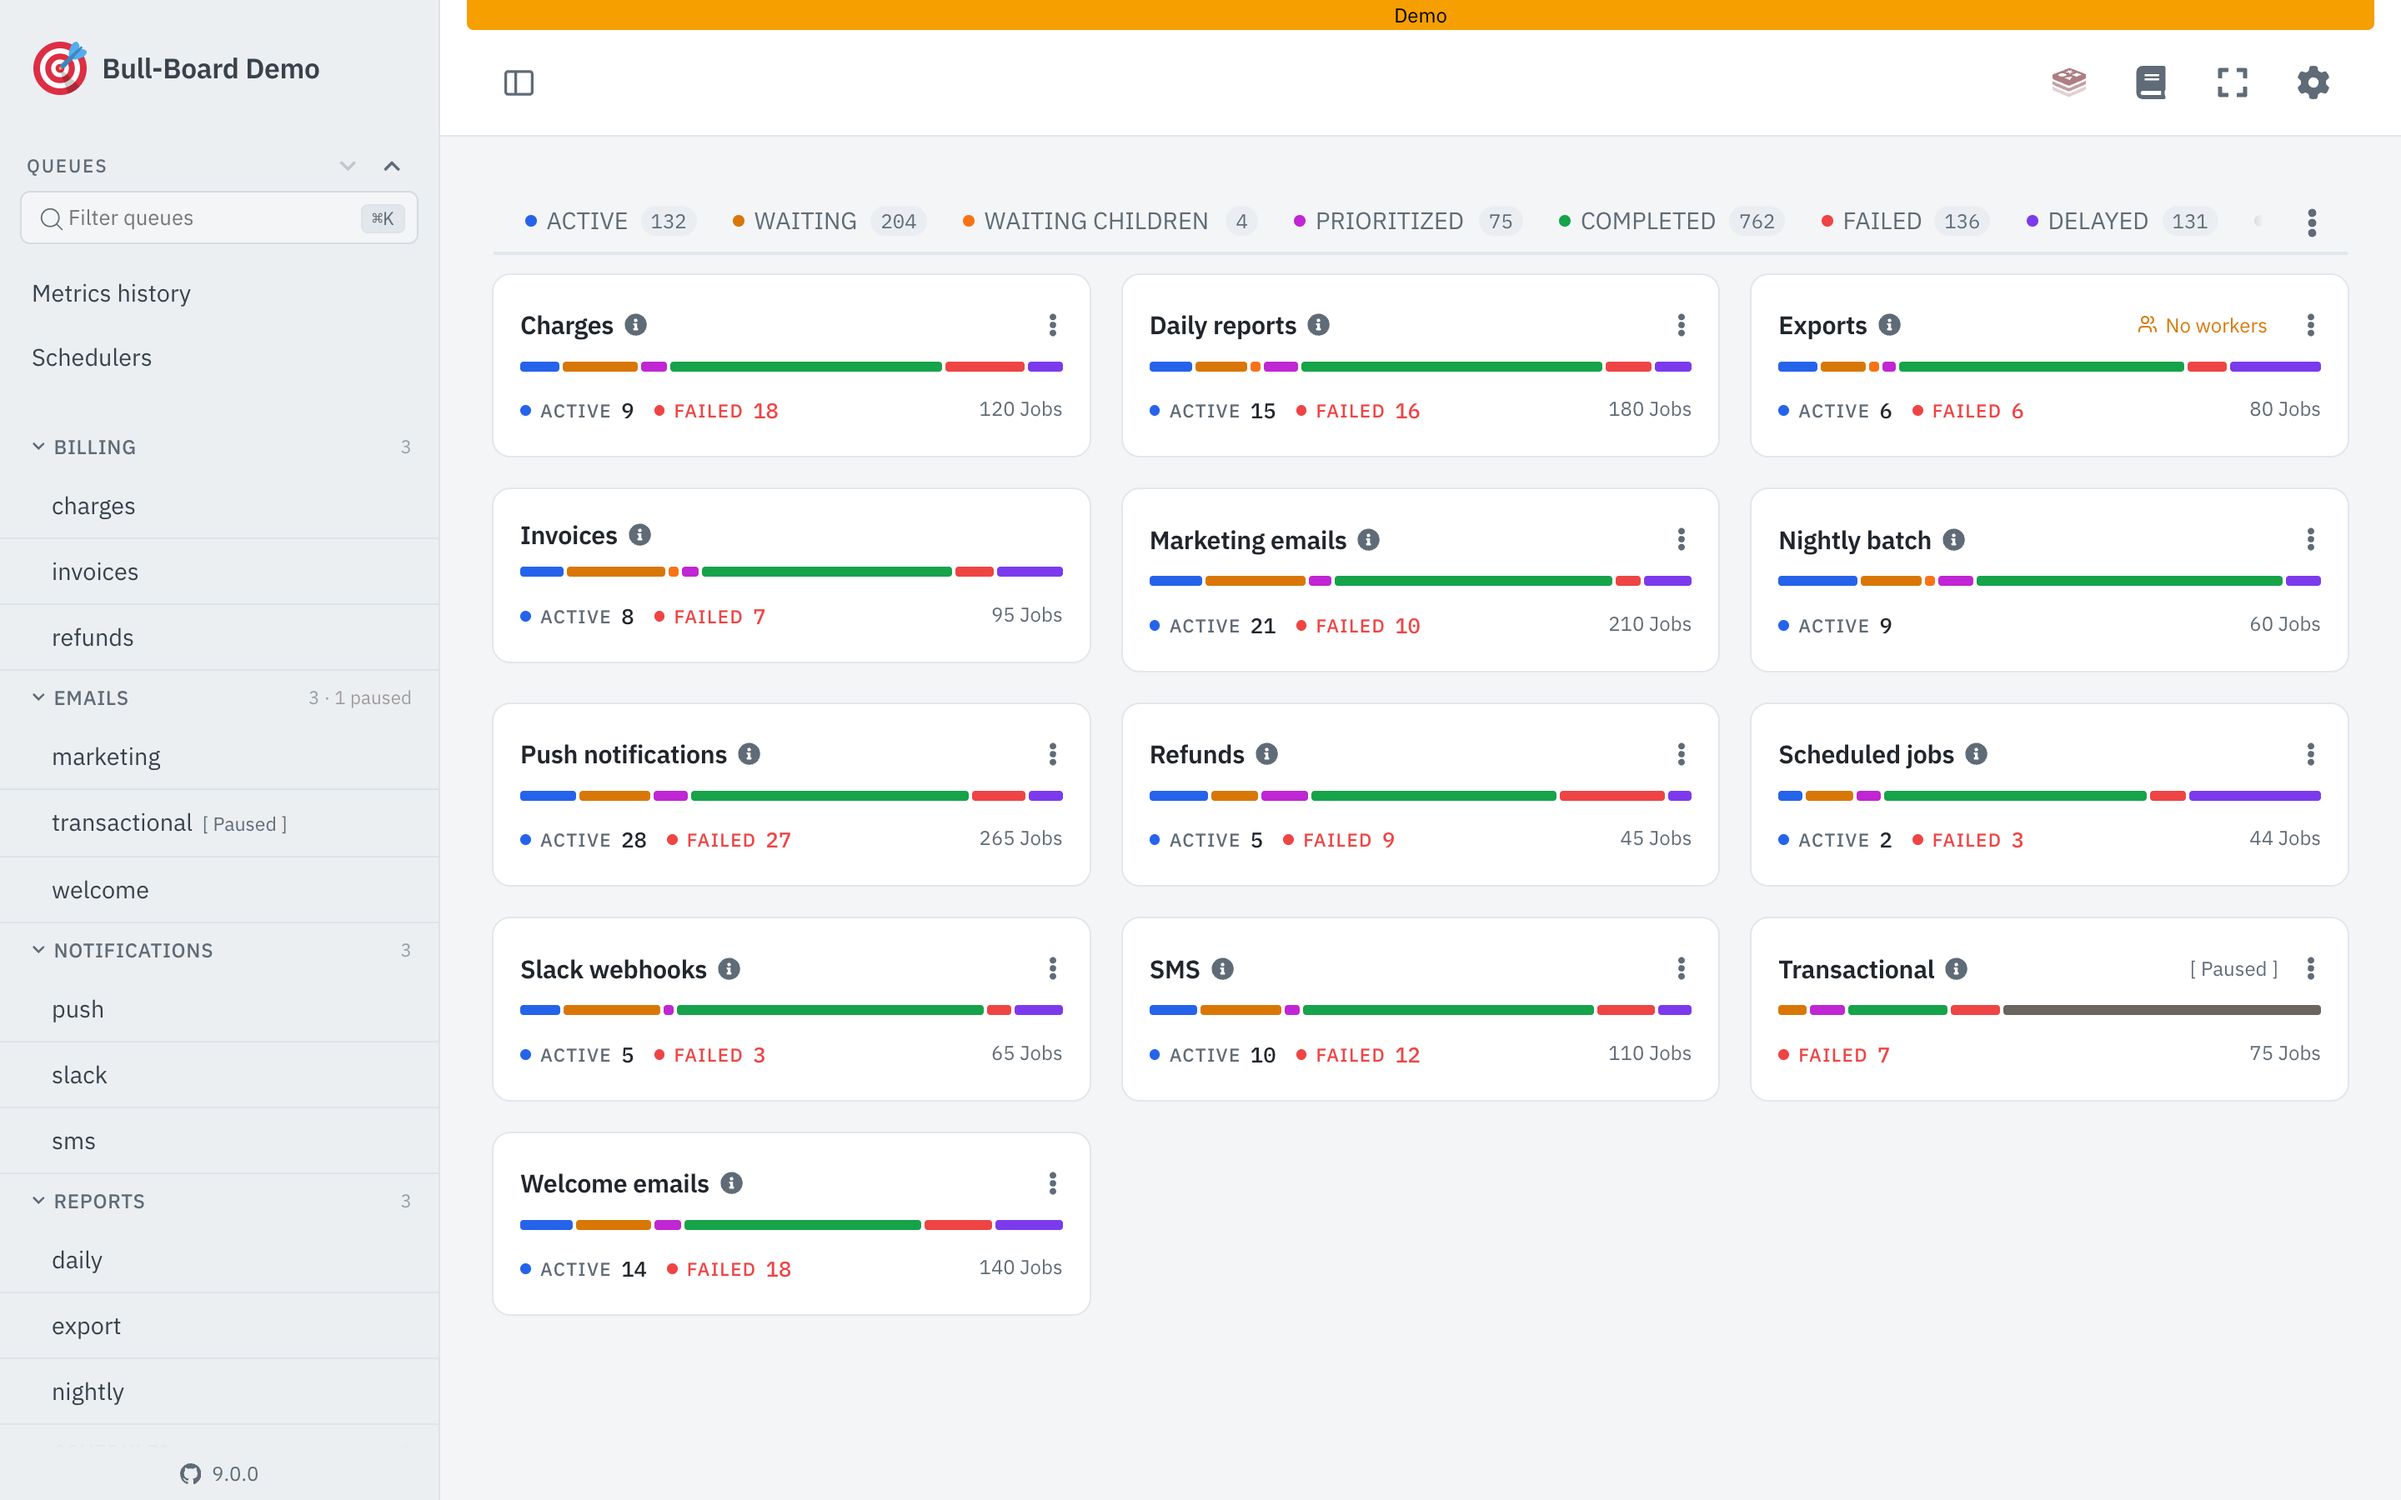
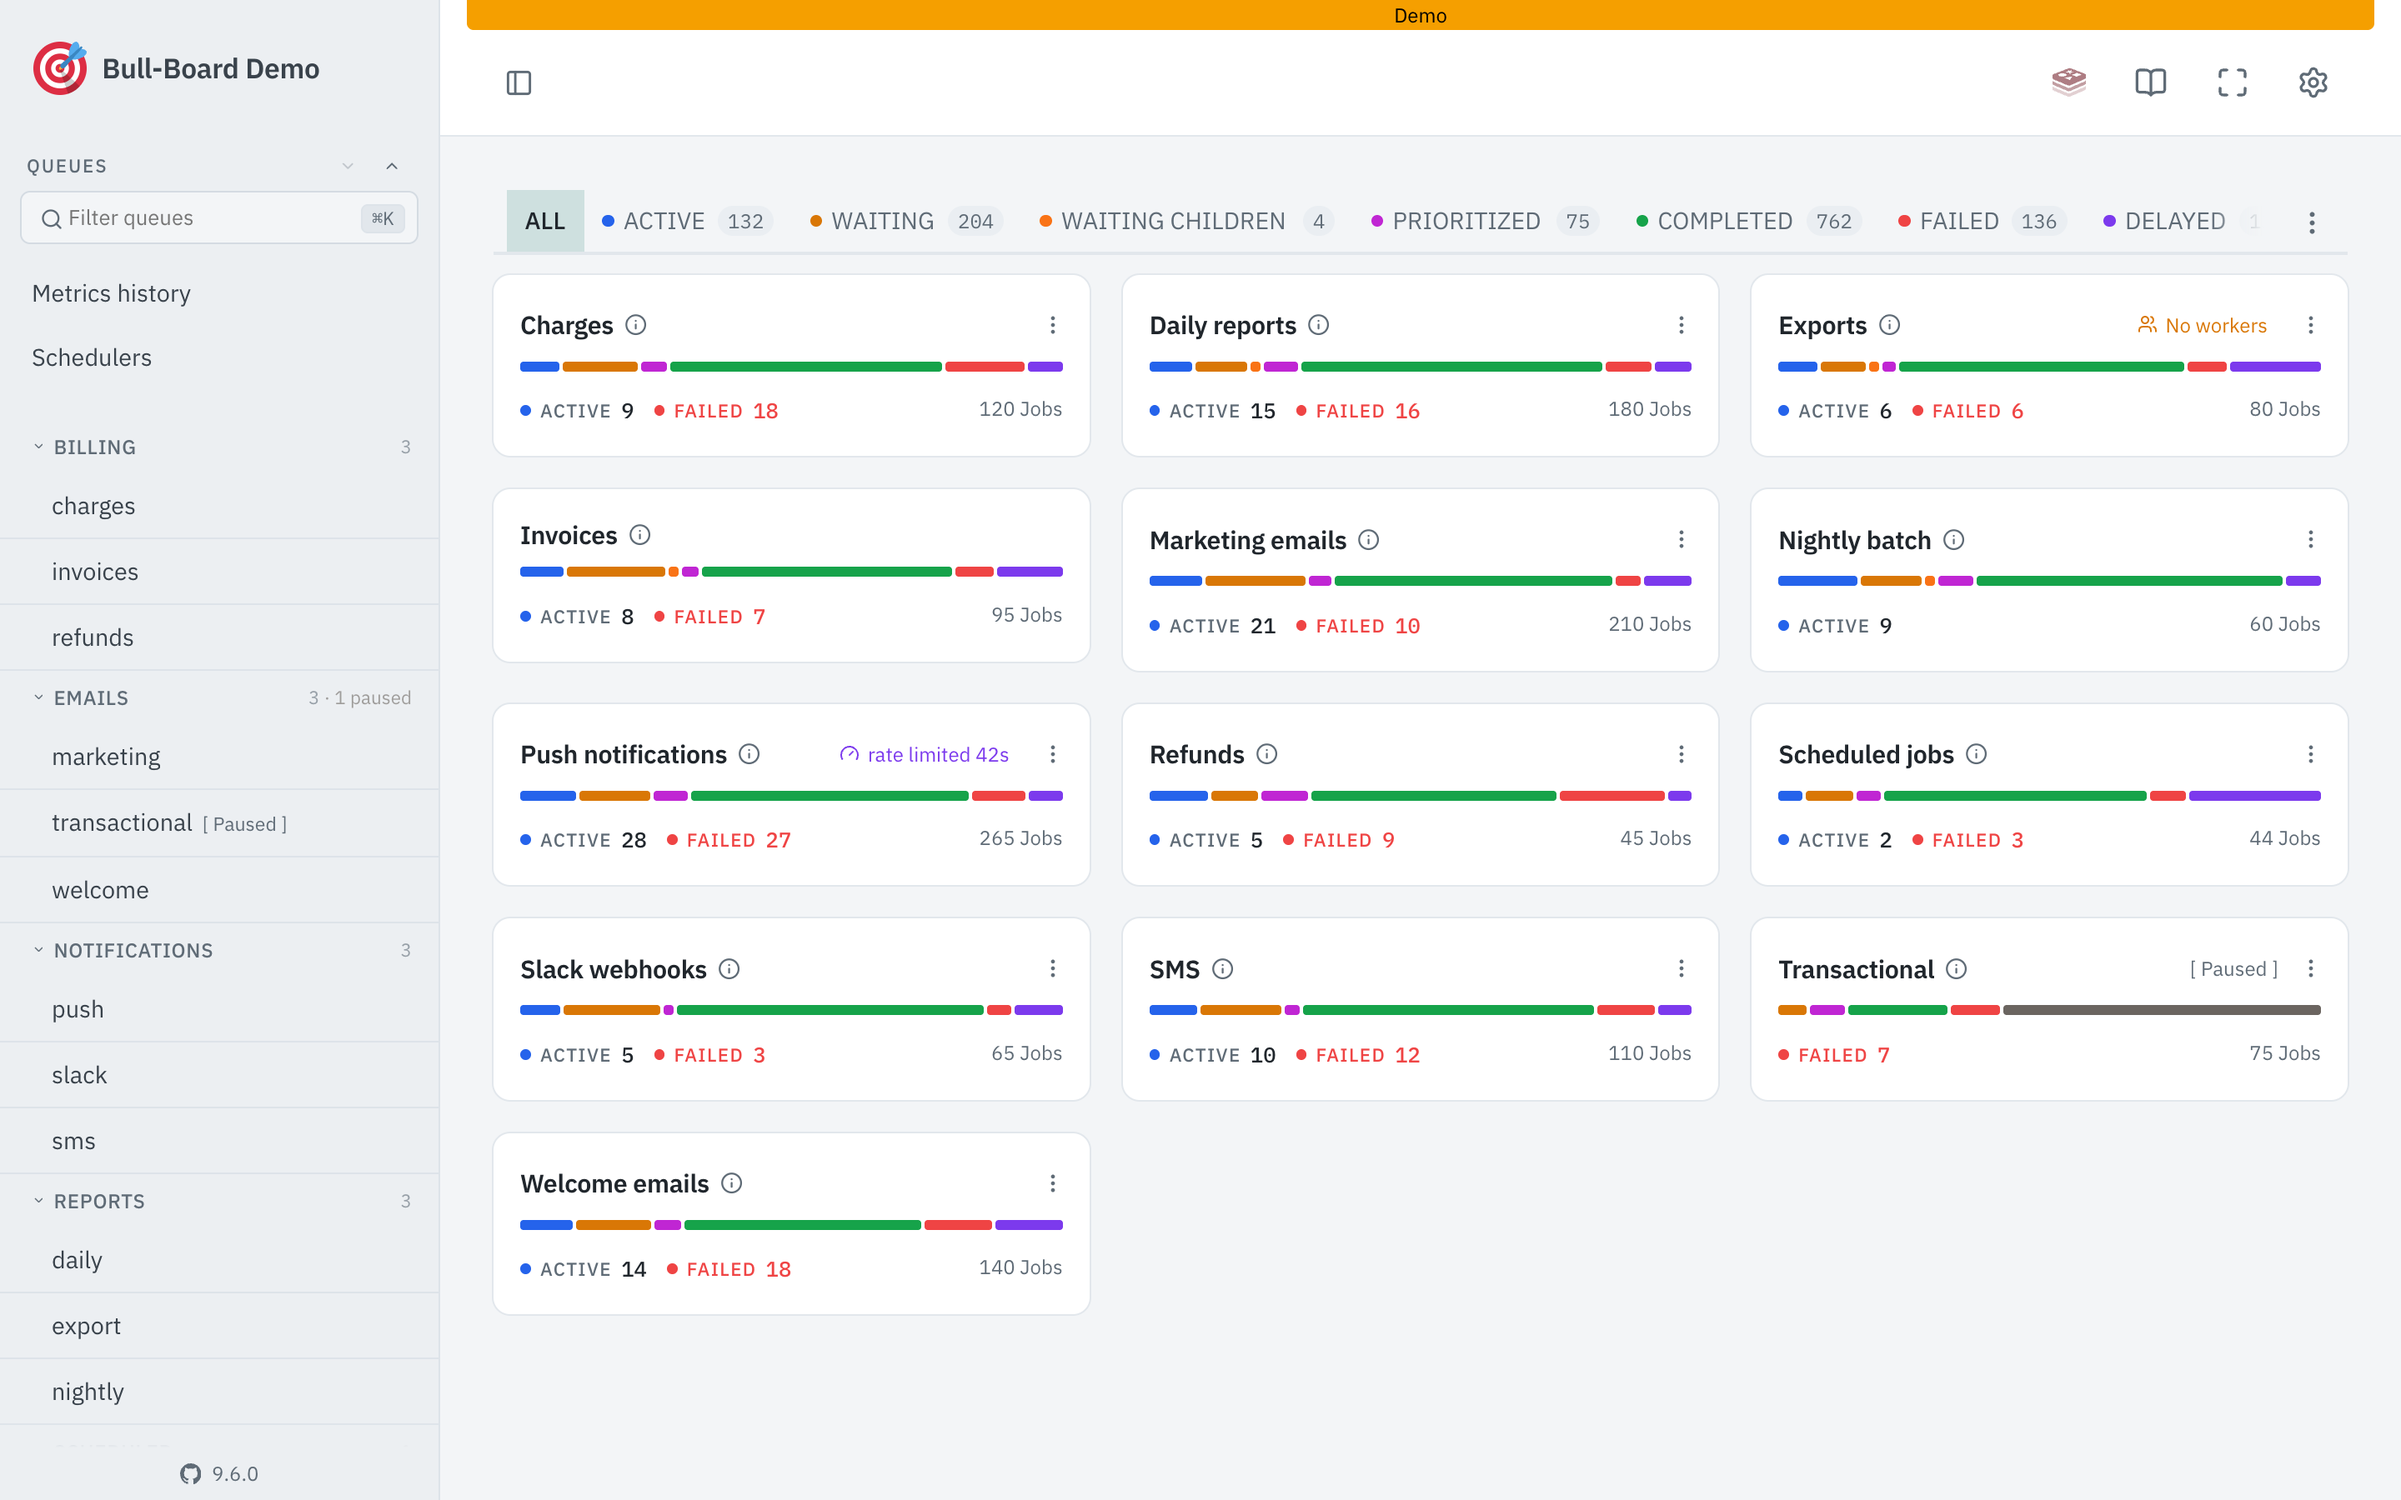
docs: reshoot the dashboard screenshots at v9.6.0

diff --git a/website/docs/guide/exploring-the-dashboard.md b/website/docs/guide/exploring-the-dashboard.md
@@ -41,6 +41,14 @@ The toggle in the top-left of the header hides the sidebar and gives the content
 
 The filter box at the top of the sidebar matches queues by name and drives both the sidebar tree and the overview at once. Press `⌘K` (or `Ctrl K`) anywhere to jump straight to it. If the sidebar is collapsed, it opens first.
 
+## Filtering the overview by status
+
+The row above the cards doubles as a board-wide tally and a filter. Each status carries the total sitting in it across every queue, and picking one narrows the overview to the queues that have jobs in that state, which is how you get from "something is wrong" to the queues it is wrong on.
+
+**All** is the leftmost tab and the one selected by default. It is how you clear a filter: the status is held in the URL as `?status=`, so a filtered view is a link you can send someone, and All is the way back to the full board.
+
+The row scrolls rather than wraps when the statuses outrun the width, which they do on a narrow window or once the grouped view adds its expand and collapse controls.
+
 ## Schedulers
 
 Queues that register job schedulers get a **Schedulers** entry in the sidebar. It lists every scheduler the board can see, across all queues, with its cron pattern or interval, when it fires next, when it last ran, and how many times it has run.
@@ -69,7 +77,9 @@ Open any queue and click the info icon next to its name.
 
 ![Queue detail with the info icon next to the queue name](/screenshots/queue-detail-info-icon.png)
 
-It opens a panel showing how the queue is configured: type, paused state, global concurrency, how many workers are connected, and the default job options (attempts, backoff, retention), so you don't have to dig through code.
+It opens a panel showing how the queue is configured: type, paused state, global concurrency, the configured rate limit, how many workers are connected, and the default job options (attempts, backoff, retention), so you don't have to dig through code.
+
+Global concurrency and the rate limit are the two the board can change, so each carries a pencil that opens its editor over the panel and returns you to it afterwards. Both respect `readOnlyMode`, and neither appears on a Bull queue, which has no runtime setter for either. The same two editors are in the queue's actions dropdown.
 
 ![Queue info panel showing the queue overview, including its worker count](/screenshots/queue-info-modal.png)
 
